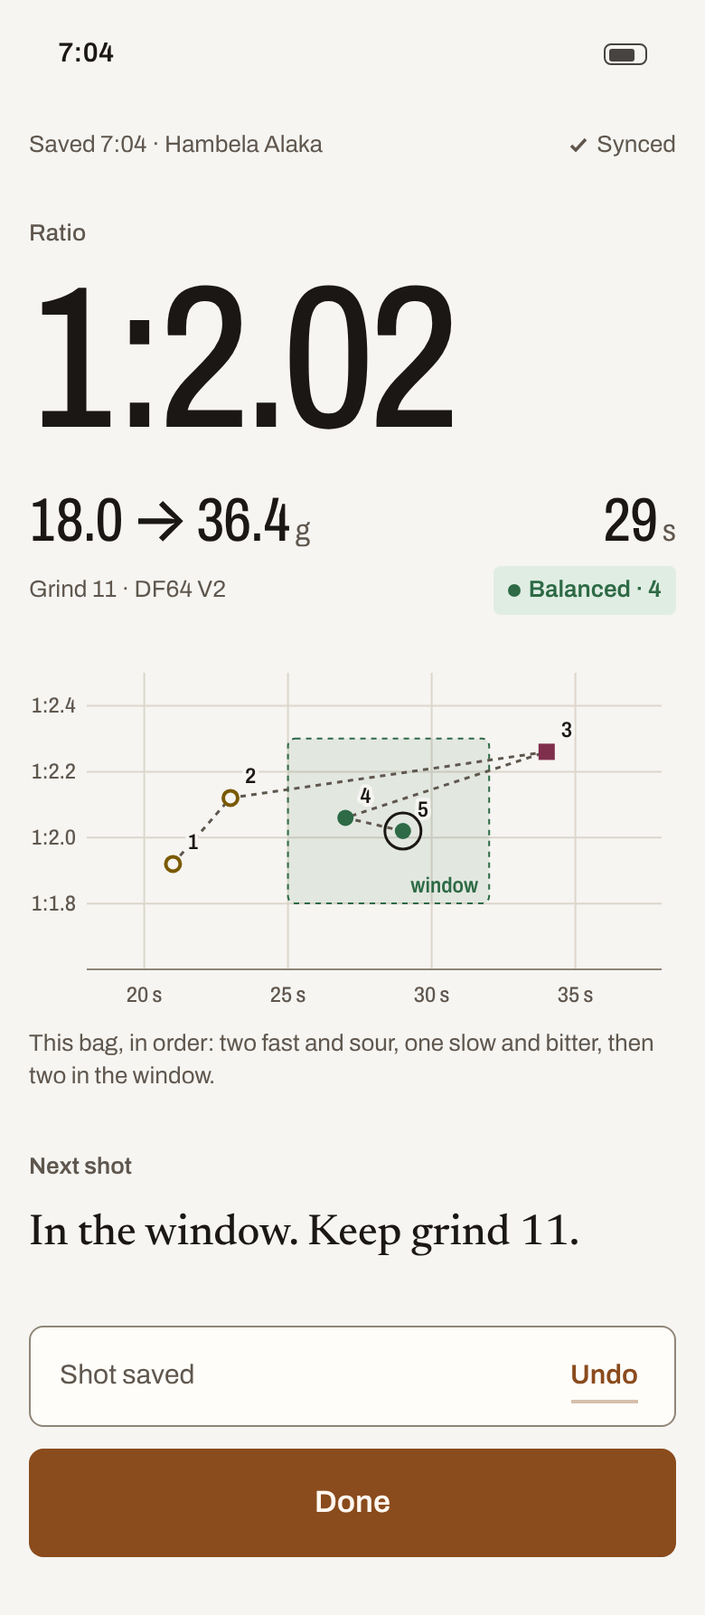
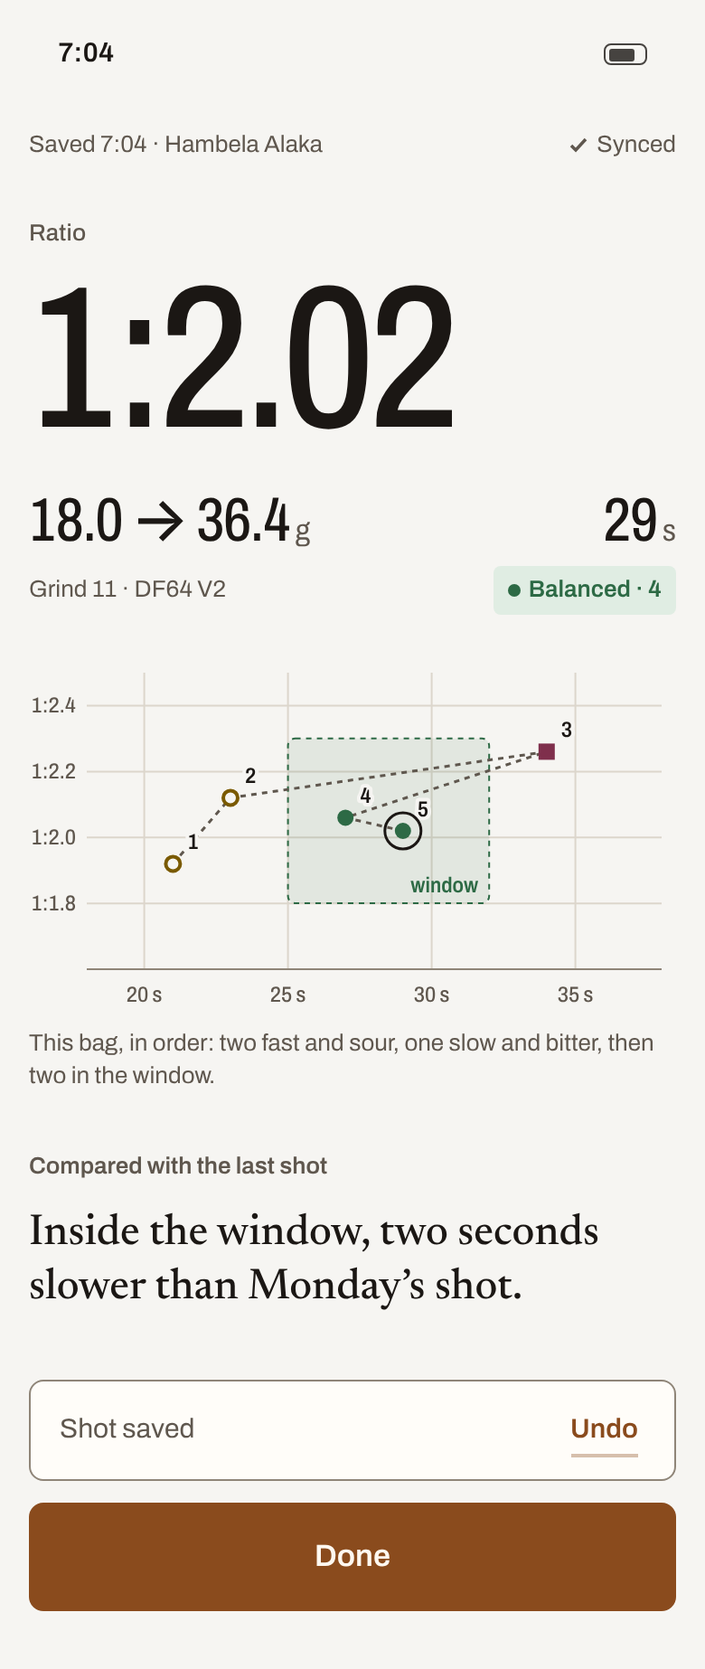
Defer grind suggestions and store photos in Hugging Face's image layout
The app now describes each shot (ratio, time against the window, taste,
the target, a comparison with the last shot) and suggests no grind
changes; a later section in the plan sets the bar for a trained dial-in
model. suggest_next stays for the MCP and issue-form replies. Photos keep
one Parquet file each, with the image column as struct<bytes, path> and
the datasets Image feature metadata, and the plan says why Parquet beats
loose JPEGs here.

Claude-Session: https://claude.ai/code/session_01TipAHJ9d4fbng8cLHiGWtL

diff --git a/docs/app/mockups/saved.html b/docs/app/mockups/saved.html
@@ -221,8 +221,8 @@ body { margin: 0 auto; max-width: 390px; min-height: 844px; background: var(--pa
   <div class="row mt8"><span class="meta">Grind 11 · DF64 V2</span><span class="taste balanced">Balanced · 4</span></div>
   <div class="mt24"><svg class="target" viewBox="0 0 358 196" role="img" aria-label="Shots by time and ratio against the 25 to 32 second, 1:1.8 to 1:2.3 window"><line class="tick" x1="63.8" x2="63.8" y1="8" y2="172"/><text x="63.8" y="190" text-anchor="middle">20 s</text><line class="tick" x1="143.3" x2="143.3" y1="8" y2="172"/><text x="143.3" y="190" text-anchor="middle">25 s</text><line class="tick" x1="222.8" x2="222.8" y1="8" y2="172"/><text x="222.8" y="190" text-anchor="middle">30 s</text><line class="tick" x1="302.3" x2="302.3" y1="8" y2="172"/><text x="302.3" y="190" text-anchor="middle">35 s</text><line class="tick" x1="32" x2="350" y1="135.6" y2="135.6"/><text x="26" y="139.6" text-anchor="end">1:1.8</text><line class="tick" x1="32" x2="350" y1="99.1" y2="99.1"/><text x="26" y="103.1" text-anchor="end">1:2.0</text><line class="tick" x1="32" x2="350" y1="62.7" y2="62.7"/><text x="26" y="66.7" text-anchor="end">1:2.2</text><line class="tick" x1="32" x2="350" y1="26.2" y2="26.2"/><text x="26" y="30.2" text-anchor="end">1:2.4</text><rect class="win" x="143.3" y="44.4" width="111.3" height="91.1" rx="4"/><text class="wl" x="248.6" y="129.6" text-anchor="end">window</text><line class="ax" x1="32" x2="350" y1="172" y2="172"/><polyline class="path" points="79.7,113.7 111.5,77.2 286.4,51.7 175.1,88.2 206.9,95.5"/><circle class="s-sour" cx="79.7" cy="113.7" r="4"/><text class="ord" x="87.7" y="105.7">1</text><circle class="s-sour" cx="111.5" cy="77.2" r="4"/><text class="ord" x="119.5" y="69.2">2</text><rect class="s-bitter" x="281.9" y="47.2" width="9" height="9"/><text class="ord" x="294.4" y="43.7">3</text><circle class="s-balanced" cx="175.1" cy="88.2" r="4.5"/><text class="ord" x="183.1" y="80.2">4</text><circle class="s-balanced" cx="206.9" cy="95.5" r="4.5"/><text class="ord" x="214.9" y="87.5">5</text><circle class="now" cx="206.9" cy="95.5" r="10"/></svg></div>
   <div class="meta mt8">This bag, in order: two fast and sour, one slow and bitter, then two in the window.</div>
-  <div class="section">Next shot</div>
-  <p class="serif advice">In the window. Keep grind 11.</p>
+  <div class="section">Compared with the last shot</div>
+  <p class="serif advice">Inside the window, two seconds slower than Monday’s shot.</p>
   <div class="spacer"></div>
   <div class="dock">
     <div class="undo">Shot saved<b>Undo<i></i></b></div>

diff --git a/docs/app/mockups/today.html b/docs/app/mockups/today.html
@@ -229,7 +229,7 @@ body { margin: 0 auto; max-width: 390px; min-height: 844px; background: var(--pa
     </div>
     <div class="meta mt8">Grind 11 on DF64 V2 · 1:2.02 · rated 4</div>
     <div class="mt16"><svg class="target" viewBox="0 0 358 150" role="img" aria-label="Shots by time and ratio against the 25 to 32 second, 1:1.8 to 1:2.3 window"><line class="tick" x1="63.8" x2="63.8" y1="8" y2="126"/><text x="63.8" y="144" text-anchor="middle">20 s</text><line class="tick" x1="143.3" x2="143.3" y1="8" y2="126"/><text x="143.3" y="144" text-anchor="middle">25 s</text><line class="tick" x1="222.8" x2="222.8" y1="8" y2="126"/><text x="222.8" y="144" text-anchor="middle">30 s</text><line class="tick" x1="302.3" x2="302.3" y1="8" y2="126"/><text x="302.3" y="144" text-anchor="middle">35 s</text><line class="tick" x1="32" x2="350" y1="99.8" y2="99.8"/><text x="26" y="103.8" text-anchor="end">1:1.8</text><line class="tick" x1="32" x2="350" y1="73.6" y2="73.6"/><text x="26" y="77.6" text-anchor="end">1:2.0</text><line class="tick" x1="32" x2="350" y1="47.3" y2="47.3"/><text x="26" y="51.3" text-anchor="end">1:2.2</text><line class="tick" x1="32" x2="350" y1="21.1" y2="21.1"/><text x="26" y="25.1" text-anchor="end">1:2.4</text><rect class="win" x="143.3" y="34.2" width="111.3" height="65.6" rx="4"/><text class="wl" x="248.6" y="93.8" text-anchor="end">window</text><line class="ax" x1="32" x2="350" y1="126" y2="126"/><polyline class="path" points="79.7,84.0 111.5,57.8 286.4,39.5 175.1,65.7 206.9,70.9"/><circle class="s-sour" cx="79.7" cy="84.0" r="4"/><text class="ord" x="87.7" y="76.0">1</text><circle class="s-sour" cx="111.5" cy="57.8" r="4"/><text class="ord" x="119.5" y="49.8">2</text><rect class="s-bitter" x="281.9" y="35.0" width="9" height="9"/><text class="ord" x="294.4" y="31.5">3</text><circle class="s-balanced" cx="175.1" cy="65.7" r="4.5"/><text class="ord" x="183.1" y="57.7">4</text><circle class="s-balanced" cx="206.9" cy="70.9" r="4.5"/><text class="ord" x="214.9" y="62.9">5</text><circle class="now" cx="206.9" cy="70.9" r="10"/></svg></div>
-    <p class="serif advice mt12">In the window. Keep grind 11.</p>
+    <p class="serif advice mt12">Inside the window, two seconds slower than Monday’s shot.</p>
   </section>
   <div class="section">Earlier with this bag</div>
   <div class="list">

diff --git a/docs/app/mockups/sign-in.html b/docs/app/mockups/sign-in.html
@@ -213,7 +213,7 @@ body { margin: 0 auto; max-width: 390px; min-height: 844px; background: var(--pa
 <div class="status"><span>7:12</span><i></i></div>
 <main class="screen">
   <div class="mt48 serif wordmark">registry.coffee</div>
-  <p class="body mt12" style="font-size:17px;max-width:28ch">Log a shot at the machine and get the next grind setting.</p>
+  <p class="body mt12" style="font-size:17px;max-width:28ch">Log each shot at the machine and see how every bag dials in.</p>
   <div class="spacer"></div>
   <label class="flabel">Username</label>
   <div class="input">jtouley</div>

diff --git a/docs/app/mockups/log-shot.html b/docs/app/mockups/log-shot.html
@@ -236,7 +236,7 @@ body { margin: 0 auto; max-width: 390px; min-height: 844px; background: var(--pa
   </div>
   <div class="row mt16"><span class="label">Taste</span><span class="chip">Same as last <b>· Balanced, 4</b></span></div>
   <div class="seg mt8">
-    <div>Sour<small>grind finer</small></div><div>Balanced<small>keep</small></div><div>Bitter<small>grind coarser</small></div>
+    <div>Sour</div><div>Balanced</div><div>Bitter</div>
   </div>
   <div class="label mt16">Rating</div>
   <div class="pips mt8"><div>1</div><div>2</div><div>3</div><div>4</div><div>5</div></div>

diff --git a/docs/app/PLAN.md b/docs/app/PLAN.md
@@ -16,7 +16,8 @@ small grind change) the timer plus three taps, and makes a new bag one photo and
   with one tap.
 - Record equipment once (grinder, machine, basket) and have every shot point at the grinder it was ground on, so a
   grind setting means something across grinders.
-- Show dial-in advice the moment a shot is saved, using the same rules as `shots.suggest_next`.
+- Show what a shot did the moment it's saved: ratio, time against the 25 to 32 s window, taste, and where it sits
+  among this bag's shots. The app doesn't suggest grind changes yet (see Later: a dial-in model).
 - Give each coffee a page with its shots, best recipe, and the catalog's current price and stock.
 - Keep the lake append-only. New tables and new nullable columns only; every existing shot stays valid.
 - Keep shots and bag photos private. Neither reaches the public tables, the public site or git. Shots come off
@@ -72,17 +73,18 @@ finished.
 1. Today shows the current bag and a "Pull again" button with the last recipe ("18.0 → 36.4 g · grind 11").
 2. "Pull again" opens the shot form prefilled from the last shot of this bag (or of this coffee, if the bag is
    new): dose, yield, grind, water temp, grinder, basket, brew method, milk drink. Time is not prefilled: it starts
-   as "Not timed · last 29 s", because a copied time would be saved as if it were measured and would feed the
-   advice. If the last shot's advice said "go finer to 11", the grind field shows 12 with a "Try 11" chip; one tap
-   takes the suggestion. The app never changes a value on its own.
+   as "Not timed · last 29 s", because a copied time would be saved as if it were measured. The grind field shows
+   the last shot's grind and nothing else; the app doesn't suggest a different one.
 3. Adjust what changed with steppers (dose and yield in 0.1 g, time in 1 s, grind in the grinder's own step size).
    Time has two ways in, both always available: the built-in timer (Start when the pump starts, Stop when it
    stops) or typing it. "Type" opens a numeric keypad; tapping any numeral does the same for that field.
 4. Pick taste (sour, balanced, bitter) and rating (1 to 5). Both start empty; they are the only new information in
    a repeat shot. A "Same as last" chip above them ("Same as last: balanced, 4") fills both in one tap when the shot
    tasted like yesterday's.
-5. "Save shot". The saved screen shows the ratio, the time against the 25 to 32 s window and the next-shot advice,
-   with "Undo" for 5 s. Undo writes a retraction record (`deleted: true`), not a delete.
+5. "Save shot". The saved screen shows the ratio, the time against the 25 to 32 s window, the taste, the shot's
+   place on the dial-in target among this bag's shots, and one line comparing it with the last shot ("Inside the
+   window, two seconds slower than Monday's shot"; "Ran fast at 22 s, outside the window"). It describes what
+   happened and doesn't say what to change. "Undo" stays for 5 s. Undo writes a retraction record (`deleted: true`), not a delete.
 
 Repeat shot that tasted the same: Pull again, Start, Stop, "Same as last", Save. Three taps plus the timer. If the
 taste or rating differs, it's taste and rating instead of "Same as last": four taps plus the timer. Saving without
@@ -99,7 +101,7 @@ every shot of this coffee coloured by taste, and the shot list. Each shot opens 
 ### 4. Manage equipment
 
 Settings → Equipment. A list of grinders, machines and baskets. Each has a name and a few fields that matter for
-advice: a grinder's scale (min, max, step) and which way is finer, a basket's nominal dose. One of each is marked
+the steppers and, later, the dial-in model: a grinder's scale (min, max, step) and which way is finer, a basket's nominal dose. One of each is marked
 default. Adding a grinder takes a name and those three numbers. Retiring one hides it from pickers but keeps old
 shots pointing at it. Changes are new records, with the latest per `equipment_id` winning.
 
@@ -127,7 +129,7 @@ The basket's 18 g becomes the default dose for a coffee's first shot.
 | Which one is it | A weak match: candidates with their scores | `mockups/match-weak.html` |
 | Read failed | The label couldn't be read: Retake, or type the coffee | `mockups/read-failed.html` |
 | Log shot | The prefilled form; the one screen that has to be fast | `mockups/log-shot.html` |
-| Saved | Ratio, time window, advice, undo | `mockups/saved.html` |
+| Saved | Ratio, time against the window, taste, the target, a one-line comparison, undo | `mockups/saved.html` |
 | Coffee | One coffee: catalog facts, best recipe, chart, shots | `mockups/coffee.html` |
 | Setup | Equipment, plus the account: invite someone, sign out | `mockups/equipment.html` |
 | Sign in | Username and password | `mockups/sign-in.html` |
@@ -150,12 +152,12 @@ The basket's 18 g becomes the default dose for a coffee's first shot.
 
 | Option | For | Against |
 |---|---|---|
-| A. Hugging Face Space (Docker, FastAPI) | Same account as the lake, so the token never leaves HF. Python, so it imports `coffeedata` directly: `log_shot`, `fuzzy_match_coffee`, `suggest_next` and the lake writer are reused, not rewritten. Free CPU tier. Secrets in Space settings. | Free Spaces sleep after 48 hours without traffic, so the first shot after a trip waits for a cold start (tens of seconds). The disk is ephemeral, so nothing can wait in local staging. |
-| B. Cloudflare Workers + Pages | Never sleeps, fast everywhere, free at this volume. | JavaScript. Matching, advice and the Parquet writer would be a second implementation that drifts from the Python one. Parquet writing from a Worker is awkward. |
+| A. Hugging Face Space (Docker, FastAPI) | Same account as the lake, so the token never leaves HF. Python, so it imports `coffeedata` directly: `log_shot`, `fuzzy_match_coffee` and the lake writer are reused, not rewritten. Free CPU tier. Secrets in Space settings. | Free Spaces sleep after 48 hours without traffic, so the first shot after a trip waits for a cold start (tens of seconds). The disk is ephemeral, so nothing can wait in local staging. |
+| B. Cloudflare Workers + Pages | Never sleeps, fast everywhere, free at this volume. | JavaScript. Matching and the Parquet writer would be a second implementation that drifts from the Python one. Parquet writing from a Worker is awkward. |
 | C. Small VM or container host (Fly.io, Render, a home server) | Python reuse, always on if paid. | Another account and bill to look after; a home server isn't reachable without a tunnel. |
-| D. No server: static app that opens GitHub issues | Reuses the existing issue-form workflow. | Needs a GitHub token on the phone, takes a minute per shot through Actions, and can't do photos or instant advice. |
+| D. No server: static app that opens GitHub issues | Reuses the existing issue-form workflow. | Needs a GitHub token on the phone, takes a minute per shot through Actions, and can't do photos or show the saved summary right away. |
 
-Recommendation: A, the Space. Code reuse is the deciding factor: the matching and advice rules already have tests,
+Recommendation: A, the Space. Code reuse is the deciding factor: the matching rules and the lake writer already have tests,
 and a second implementation would drift. The 48-hour sleep doesn't matter for daily use; if it starts to annoy,
 upgrading the Space's hardware to an always-on tier is one setting. The Space's own code lives in this repo
 (`app/`) and is pushed to the Space by a workflow, so the Space repo never holds anything hand-edited.
@@ -265,7 +267,7 @@ Each action is one Hugging Face commit, made by the Space with the existing `Lak
 - Equipment change: one `equipment` file.
 
 `Lake.publish` already retries with backoff and treats files that landed on a lost response as uploaded. A commit
-takes a second or two. The phone shows the saved screen immediately (the advice is computed from data the server
+takes a second or two. The phone shows the saved screen immediately (the summary needs only the shot and data the server
 already holds) and marks the shot as synced when the commit returns.
 
 The phone generates `shot_id` and `bag_id` (UUIDs) before sending. A retried request writes a second file for the
@@ -318,9 +320,8 @@ Kitchen Wi-Fi is usually fine, but a shot should never be lost to a dropped conn
 - The app is a PWA with a service worker that caches the shell, so it opens offline.
 - Every write goes through an outbox in IndexedDB and is retried until the server acknowledges the commit. The
   Today screen shows a small "2 waiting to sync" line when the outbox isn't empty.
-- Offline, the form still prefills from the locally cached last shots, and advice is computed in the browser with
-  a short JavaScript port of `suggest_next`'s rules. That's the one piece of duplicated logic, kept small and
-  checked against the Python version with shared test cases.
+- Offline, the form still prefills from the locally cached last shots, and the saved screen draws its summary and
+  target from them. Nothing of the server's logic is duplicated in the browser.
 - Bag capture needs the network (the photo has to be read). Offline, "New bag" saves the photo to the outbox and
   lets the owner type the coffee or pick a recent one; the read and match happen when it syncs.
 
@@ -344,8 +345,8 @@ have no `user_id`; dbt fills it with the owner's id (a dbt var, `owner_user_id`)
 | `kind` | string | `grinder`, `machine` or `basket` |
 | `name` | string | "DF64 V2" |
 | `model` | string | optional |
-| `scale_min`, `scale_max`, `scale_step` | double | grinders only; the step feeds the stepper and the advice |
-| `finer_is_lower` | bool | grinders only; `suggest_next` already takes this argument |
+| `scale_min`, `scale_max`, `scale_step` | double | grinders only; the step feeds the stepper |
+| `finer_is_lower` | bool | grinders only; `suggest_next` takes it, and the dial-in model will need it |
 | `basket_dose_g` | double | baskets only |
 | `is_default` | bool | |
 | `retired` | bool | hidden from pickers, kept for history |
@@ -376,13 +377,24 @@ have no `user_id`; dbt fills it with the owner's id (a dbt var, `owner_user_id`)
 | `photo_id` | string | UUID |
 | `user_id` | string | |
 | `taken_at` | timestamp | |
-| `image` | binary | the JPEG bytes, EXIF removed, about 1600 px on the long edge |
+| `image` | struct<`bytes`: binary, `path`: string> | Hugging Face's `Image` layout: the JPEG bytes (EXIF removed, about 1600 px on the long edge) and a file name, `<photo_id>.jpg` |
 | `media_type` | string | `image/jpeg` |
 | `width`, `height`, `bytes` | int | |
 | `sha256` | string | of `image`; the same bag photographed twice is easy to spot |
 
-Photos are Parquet like everything else, one row per file, so `Lake.write` handles them with one new schema entry
-(a `pa.binary()` column) and no new code path. The photo dataset is opened as its own `Lake`
+Photos are Parquet like everything else, one photo per file, so `Lake.write` handles them with one new schema
+entry and no new code path. The `image` column uses the same layout as the `datasets` library's `Image` feature, and
+the schema carries the same metadata it writes, under the `huggingface` key:
+
+```json
+{"info": {"features": {"photo_id": {"dtype": "string", "_type": "Value"}, "image": {"_type": "Image"}, ...}}}
+```
+
+`Lake.write` builds the table against the schema in `SCHEMAS`, so putting this metadata on the `photos` schema is
+enough for every file to carry it. With it, `datasets.load_dataset` returns the column as images, and the Hub's
+dataset viewer shows thumbnails. (The viewer works on private datasets only for a PRO account or a Team or
+Enterprise organization, so on the free tier the thumbnails won't appear in the browser; the files are the same
+either way.) The photo dataset is opened as its own `Lake`
 (`COFFEEDATA_PHOTOS=hf://datasets/jtouley/coffee-data-photos`). The `photo_id` on a `bags` row is the only link
 from the main lake. Parquet's compression won't shrink a JPEG further, so the files are about the size of the
 image.
@@ -439,7 +451,8 @@ and nothing about an old shot changes. `Shot` in `models.py` gains the same opti
 optional `grinder_name` argument that resolves to an `equipment_id` by name. (Not `grinder`: `shots.ALIASES`
 already maps `grinder` to `grinder_setting`.)
 
-A grind setting is now only comparable within one grinder. `suggest_next` and `mart_dial_in` should group by
+A grind setting is now only comparable within one grinder. `suggest_next` (still used by the MCP server and the
+issue-form replies) and `mart_dial_in` should group by
 `(coffee, grinder_id)` when `grinder_id` is set, and treat null as "the grinder used before equipment existed".
 
 ### dbt changes
@@ -460,9 +473,12 @@ A grind setting is now only comparable within one grinder. `suggest_next` and `m
 ## Privacy
 
 - Bag photos stay private. They go to a separate private dataset, `hf://datasets/jtouley/coffee-data-photos`, as
-  Parquet files with the image in a binary column. The main lake is private too, but a separate dataset means a
+  Parquet files in Hugging Face's `Image` layout, one photo per file. The main lake is private too, but a separate dataset means a
   mistake in the public export can't reach a photo, and the photos could be deleted wholesale without touching the
   lake's history. Only the `photo_id` is in the main lake.
+- Why Parquet and not plain JPEG files: a Parquet photo goes through the same `Lake.write` and `Lake.publish` as every
+  other record, and the image and its metadata (who, when, size, hash) are one immutable file that can't drift apart.
+  Plain JPEGs would need a second write path for binary files and a separate metadata table kept in step with them.
 - EXIF is removed on the phone before upload, so GPS coordinates of the kitchen never leave it. The server
   re-encodes the JPEG as a second check before writing the bytes into Parquet.
 - Photos are served only through the Space, to the user who took them, never by a direct HF URL. The Space reads
@@ -508,20 +524,35 @@ Each one is usable on its own and goes through the normal PR and CI process.
    test update, the `fct_shot` mart export. The MCP `log_shot` tool accepts `grinder_name`. Shot sections removed from
    the public site. No app yet; tests over a synthetic lake with old and new shots mixed.
 2. App skeleton: FastAPI on a Space, the users dataset, owner bootstrap, sign-in, sessions and per-user scoping
-   (with the cross-user tests), the deploy workflow, the in-memory shot cache. Today and Log shot with prefill, advice, the timer and typed time. Online only. Includes the approved
+   (with the cross-user tests), the deploy workflow, the in-memory shot cache. Today and Log shot with prefill, the timer and typed time, and the saved summary. Online only. Includes the approved
    concurrent-commit test. The "Log a shot" issue form is removed at the end of this milestone.
-3. Equipment, invites and the domain: the Setup screen, grinder-aware steppers and advice; invites, sign-up and
+3. Equipment, invites and the domain: the Setup screen, grinder-aware steppers; invites, sign-up and
    reset codes; `app.registry.coffee` in front of the Space and `registry.coffee` on the Pages site.
 4. Bag capture: photo upload, EXIF stripping, the photo dataset, the Claude read, roaster-then-coffee matching,
    the match card and its fallbacks. The Opus/Haiku comparison on real bags decides the default model.
 5. Coffee page: catalog facts, best recipe, chart, shot list, correct and retract.
-6. Offline: service worker, outbox, the JavaScript advice port with shared test cases.
+6. Offline: service worker and outbox.
 7. Polish: dark mode check in a dark kitchen, haptics (Android Chrome supports them), left-hand layout, the
    empty states.
 
 Milestones 1 and 2 are the minimum that replaces the issue form at the machine, for the owner alone. Invitees can
 join from milestone 3. Capture (4) is the reason for the
 app, but it needs the bag and photo tables from 1 first.
+
+## Later: a dial-in model
+
+The app doesn't suggest grind changes. The current rule ("sour or fast, go finer") is a rule of thumb, not something
+learned from these shots, and a confident-looking suggestion from it would be wrong often enough to mislead. The
+data the app collects is what a better suggestion needs: grind, dose, yield, time, taste, rating, grinder and the
+bag's roast date.
+
+Once a coffee has enough shots on one grinder (about 20), fit a small per-bag model of time and taste against grind,
+dose and days off roast; a regression with a term per bag is enough to start. Compare it with the rule of thumb on
+held-out shots: for each held-out shot, which one better predicted the time and taste of the next one? Show a
+suggestion in the app only when the model reports its confidence and beats the rule of thumb on that test, and say
+how sure it is ("Try 11. Likely 26 to 30 s.") instead of stating a single answer.
+
+`shots.suggest_next` stays as it is for the MCP server and the issue-form replies.
 
 ## Decisions (October 27)
 
@@ -531,7 +562,8 @@ app, but it needs the bag and photo tables from 1 first.
 | Equipment | DF64 V2 (dial 0 to 90, lower is finer), Lelit Bianca, 18 g Pullman Filtration Basket (`basket17-pullm-v-v`) | Seeded as the defaults; 18 g is the default first dose. The mockups show them. |
 | Public site | No shots on it | Shot sections leave `site.py` in milestone 1; the issue form goes in milestone 2. |
 | Cold start | Fine for now | Free CPU Space. |
-| Photos | Stay private, still Parquet | Separate private dataset, image bytes in a Parquet `binary` column, no new file type in the lake. |
+| Photos | Stay private, still Parquet, in Hugging Face's image layout | Separate private dataset, one photo per Parquet file, the `image` column as `struct<bytes, path>` with the `Image` feature metadata. One write path, and the photo and its metadata stay together in one immutable file; plain JPEGs would need a separate metadata table kept in step. |
+| Grind suggestions | Deferred until there's a model trained on the owner's shots | The app describes each shot and suggests nothing. `shots.suggest_next` stays for the MCP and issue-form replies. See Later: a dial-in model. |
 | Shot timer | Built in, but typing must also work | The time row has Start/Stop and Type side by side. |
 | Rating default | Empty, with a way to say "same as last" | Taste and rating start empty; a "Same as last" chip fills both. |
 | Other users | The owner plus people they invite; nobody else uses the owner's machine | Invite-only sign-up, per-user data, a `user_id` on every personal record. |

diff --git a/docs/app/DESIGN.md b/docs/app/DESIGN.md
@@ -59,15 +59,15 @@ All six came to the same handful of conclusions without seeing each other's work
 
 | Question | Positions | Choice and why |
 |---|---|---|
-| Typeface | Geist; Atkinson + Plex Mono; Newsreader + Barlow Condensed; system-ui + Newsreader; Archivo + JetBrains Mono | Archivo for everything functional, using its width axis: 100% for labels, 72% for numerals, so four-digit values fit beside 56 px buttons. Newsreader only for coffee names and the advice sentence. A condensed numeral is what lets the log screen keep big numbers and big buttons on one row. The serif makes the coffee the subject and the numbers the tool, as two directions argued independently. |
+| Typeface | Geist; Atkinson + Plex Mono; Newsreader + Barlow Condensed; system-ui + Newsreader; Archivo + JetBrains Mono | Archivo for everything functional, using its width axis: 100% for labels, 72% for numerals, so four-digit values fit beside 56 px buttons. Newsreader only for coffee names and the shot summary. A condensed numeral is what lets the log screen keep big numbers and big buttons on one row. The serif makes the coffee the subject and the numbers the tool, as two directions argued independently. |
 | Depth | shadow rings (Krehel); flat with hairlines (the other five) | Flat with hairlines. Shadows on a phone in a dim kitchen read as smudges, and spec rows don't need cards. |
 | Radius | 2–4 px (Rams); 10 px (site); 16–20 px | 8 px on controls and buttons, 6 px on photos, 14 px on the top of a sheet. Squarer than the soft-app default but less cold than the Rams recipe. |
 | Taste colours | traffic-light; brown ramp; slate-blue bitter | Citrus for sour, sage green for balanced, a plum for bitter. A brown ramp is clever but puts "balanced" on the accent colour, so the Save button and a tag would look alike. Red would read as an error. Plum stays clear of both and still reads as "too far". Each tag also has a mark: a hollow circle for sour, a filled circle for balanced, a square for bitter. |
 | Labels | sentence case (three); tracked uppercase (two) | Sentence case at 13 px. Tracked uppercase eyebrows are one of the tells the no-slop skill names, and they're harder to read half awake. |
-| Signature element | ratio bar; extraction gauge; dose-to-yield line; word-by-word tagline; none | The dial-in target: time across, ratio up, the 25–32 s × 1:1.8–2.3 window shaded, each shot of the bag as a mark, joined oldest to newest. It merges the ratio bar and the extraction gauge into the one picture that explains the advice, and it's real data, so it repeats on Today, the log screen, the saved screen and the coffee page. The word-by-word reveal is cut: it delays the one thing you want to read. |
+| Signature element | ratio bar; extraction gauge; dose-to-yield line; word-by-word tagline; none | The dial-in target: time across, ratio up, the 25–32 s × 1:1.8–2.3 window shaded, each shot of the bag as a mark, joined oldest to newest. It merges the ratio bar and the extraction gauge into the one picture that shows how a bag is dialing in, and it's real data, so it repeats on Today, the log screen, the saved screen and the coffee page. The word-by-word reveal is cut: it delays the one thing you want to read. |
 | Shot form layout | chips select one big active value (Owl); 2×2 grid plus a scrub strip (MengTo); stacked rows (Krehel, Rams, landing) | Stacked rows: dose, yield, time, grind, each with its numeral and its own − and + on the right. Everything is visible at once, and a repeat shot is mostly reading. The scrub strip is a nice extra for later but needs the buttons anyway. |
-| Advice applying itself | one tap applies it (MengTo); never edits the value (Owl) | The grind field keeps the last value and shows the suggestion next to it. One tap takes the suggestion. Advice that edits your recipe silently would be wrong at least sometimes. |
-| Motion on save | staggered entrance; spring settle; line draw; none | One movement: the new mark travels from the previous shot's position on the target to its own, 360 ms, then the advice fades in. It shows the change you made. Nothing else on the screen moves. |
+| Advice applying itself | one tap applies it (MengTo); never edits the value (Owl) | Moot for now: the owner deferred all grind suggestions until a model trained on their shots exists (PLAN, "Later: a dial-in model"). The grind field shows the last shot's value and nothing else. |
+| Motion on save | staggered entrance; spring settle; line draw; none | One movement: the new mark travels from the previous shot's position on the target to its own, 360 ms, then the summary line fades in. It shows the change you made. Nothing else on the screen moves. |
 | Dark mode default | follow the system; dark between 5 and 8 am | Follow the system. A clock-based theme surprises people. |
 | Rating prefill | empty (most); last value (one) | The owner decided: taste and rating start empty, and a "Same as last" chip fills both from the previous shot in one tap. Every rating stays a choice, and a repeat shot is still three taps. |
 
@@ -95,8 +95,8 @@ changed, and which rule drove it:
 | A grabber on the match sheet, so it reads as something you can pull down. | Familiarity; sheets you can grab. | apple-design §3, §16 |
 | Tracking now changes with size: −0.03em on the 112 px ratio, −0.015em on other numerals, +0.01em on 13 px labels. Serif headings use `text-wrap: balance`. | Tracking is size-specific, never one value. | apple-design §15; Krehel better-typography |
 | Field rows got 10 px of space above the label so the label belongs to its number, not the rule above it. | Proximity implies relationship. | apple-design §16; Owl-Listener |
-| The advice on Today is now set in the serif, like on Saved, so "what to do next" always has the same voice. | Things that look the same behave the same. | apple-design §16 |
-| "11, lower is finer" became "11 of 90". Direction lives in the grinder profile and the taste segments ("grind finer"). | Concise, specific labels. | Krehel better-writing |
+| The line under the target on Today is now set in the serif, like on Saved, so the shot summary always has the same voice. | Things that look the same behave the same. | apple-design §16 |
+| "11, lower is finer" became "11 of 90". Direction lives in the grinder profile. | Concise, specific labels. | Krehel better-writing |
 | Chart text moved from `--ink-3` (3.5:1) to `--ink-2` (6.5:1). | Every text pair meets 4.5:1. | Krehel better-colors; Owl-Listener color-system |
 | Mockups now have a plain status bar so they read as phone screens. | | |
 
@@ -125,7 +125,7 @@ notes. They agreed far more than they disagreed. What they found, and what chang
 | The dotted path on the target ran back over itself along one line, so the order couldn't be read. | Owl-Listener, Krehel, landing-page-design | Marks are numbered in order, with a paper halo behind each number; the path is 1.5 px `--ink-2`. The sample shots spread in ratio as real ones would. |
 | Jargon: "score 94", "EXIF removed", the basket's SKU, "1 bag read today of 10". The Reading screen said "only the label text is used", which wasn't true: the image goes to Claude. | four | A confident match shows no score; a weak one asks "Which one is it?" and shows each candidate's score ("match 68"), where the number helps. No read time and no "EXIF" on the camera; the Reading screen says once, in plain words, that the photo goes to Claude with its location removed. No SKU; "1 of 10 bag reads used today". |
 | The scroll-edge fade sat inside the opaque dock, so it could never show, and the tab bar still had a hairline. | apple-design | The fade sits 20 px above the dock and the tab bar, over the content; no hairline. Sign in turns it off because the button follows the field directly. |
-| The two advice lines said different things in different sizes. | apple-design, Krehel | One string, "In the window. Keep grind 11.", in the serif at 24 px on Today and Saved. |
+| The two advice lines said different things in different sizes. | apple-design, Krehel | One string in the serif at 24 px on Today and Saved. It now describes the shot ("Inside the window, two seconds slower than Monday’s shot") since grind suggestions were deferred. |
 | Rating 1 to 5 had no anchor. | Owl-Listener | "worst" and "best" under 1 and 5. |
 | No manual theme switch. | Owl-Listener | Setup has Theme: Same as phone, Light, Dark. |
 | The wordmark said "Coffee Data" while the address will be registry.coffee. | landing-page-design | Sign in and Sign up use "registry.coffee". The repo and the public dataset keep "Coffee Data" for now (an open question in the plan). |
@@ -183,7 +183,7 @@ The scale is 12, 13, 15, 17, 20, 24, 34, 44, 56 and 112 px. Nothing else.
 | Units | Archivo, width 85% | 20 beside 56 and 44, 17 beside 34 and 24, 13 beside 20 | `--ink-2`, on the baseline |
 | Wordmark | Newsreader | 44 / 500 | −0.02em, 1 |
 | Page title | Newsreader | 34 / 500 | −0.02em, 1.1 |
-| Coffee name, advice | Newsreader | 24 / 500 | 0, 1.15 to 1.25 |
+| Coffee name, shot summary | Newsreader | 24 / 500 | 0, 1.15 to 1.25 |
 | Row title, button, input | Archivo | 17 / 600 (inputs 400) | 0 |
 | Body | Archivo | 15 / 400 | 0, 1.45 |
 | Label | Archivo | 13 / 500 | +0.01em |
@@ -211,7 +211,7 @@ stacks its steppers under the numeral instead of beside it.
 | Segment and pip selection, including "Same as last" filling them | background colour, 120 ms ease-out, with the 8 ms haptic tick |
 | Sheet in / out | spring, damping 1.0, response 0.3 s; rises from and returns to the bottom edge; follows the finger when dragged |
 | Saved: the new mark moves to its place on the target | spring, damping 1.0, response 0.36 s |
-| Saved: advice fades in | 200 ms ease-out, after the mark settles |
+| Saved: the summary line fades in | 200 ms ease-out, after the mark settles |
 | Undo countdown | 5 s, linear (an eased countdown would misstate the time left) |
 
 Never animated: numerals, lists, navigation, the running timer (it ticks), first render. With
@@ -224,9 +224,8 @@ short ticks on save, fired on the same frame as the visual change.
 
 #### Field row
 
-Label above, numeral and unit below, steppers on the right. When the last shot's advice suggests a
-change, the label carries an accent chip with the suggestion ("Try 11"); tapping it sets the value. The app never
-changes a value on its own. Long-press on a stepper repeats after 400 ms, every 80 ms. Tapping the numeral opens a
+Label above, numeral and unit below, steppers on the right. Values come from the last shot of the bag; the app never
+changes one on its own and doesn't suggest a different grind. Long-press on a stepper repeats after 400 ms, every 80 ms. Tapping the numeral opens a
 numeric keypad. A left-hand setting mirrors the steppers to the left edge.
 
 #### Time field
@@ -243,8 +242,7 @@ earlier shot of this coffee.
 
 #### Taste segments
 
-Three equal segments with the word and what it means for the grind ("grind finer", "keep",
-"grind coarser"). Selected: tinted background and a 2 px inset ring in the taste colour. No default.
+Three equal segments: Sour, Balanced, Bitter. No sublabels about grind. Selected: tinted background and a 2 px inset ring in the taste colour. No default.
 
 #### Rating pips
 
@@ -267,7 +265,7 @@ says the same thing in words.
 
 #### Chips
 
-Outlined, 44 tall, 8 radius. Accent outline for actions ("Same as last", "Try 11"); `--control` outline
+Outlined, 44 tall, 8 radius. Accent outline for actions ("Same as last"); `--control` outline
 with ink text for a picker (the grinder and basket chip). Never used for status.
 
 #### Status text
@@ -355,8 +353,9 @@ that shrinks over 5 s. Undo writes a retraction record.
 ## Copy
 
 Short, plain and specific, in sentence case, with real apostrophes (’). Buttons start with a verb. The same action
-has the same words everywhere ("Type the coffee", never "Type it instead"). Advice says what happened and what to
-do: "Ran fast at 22 s. Go finer: 12 → 11." "In the window. Keep grind 11."
+has the same words everywhere ("Type the coffee", never "Type it instead"). The app says what happened and leaves
+the next move to the owner: "Ran fast at 22 s, outside the window." "Inside the window, two seconds slower than
+Monday’s shot." No "go finer" or "try 11" until the dial-in model in the plan exists.
 
 Errors say what happened and what to do next, and keep what was typed:
 
